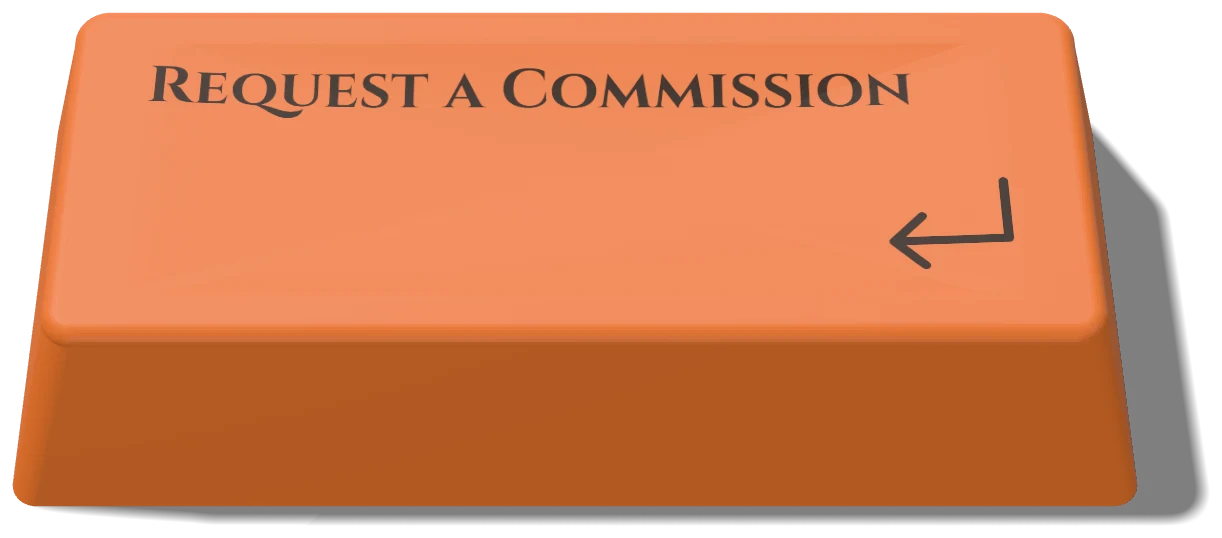
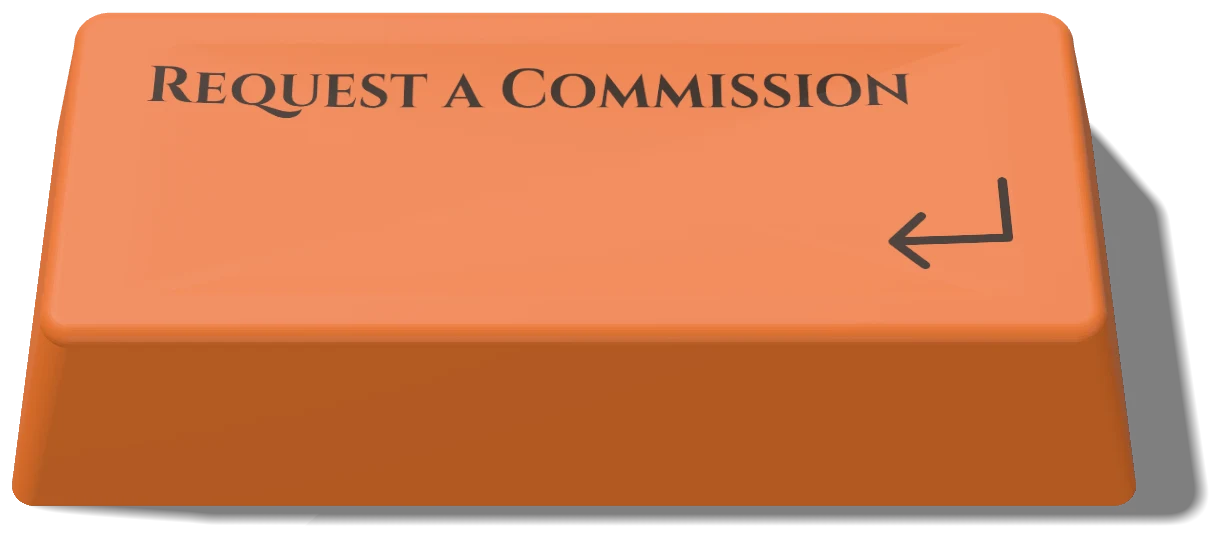
Mockup: keycap press renders the cap sinking into the plate (hover and pressed frames)
Claude-Session: https://claude.ai/code/session_014kgsP4zXbR91SpjPr6JWR2

Changed region(s): [[0.1245, 0.119, 0.3423, 0.2082], [0.3735, 0.1487, 0.5913, 0.2082]]

diff --git a/mockups/photo-key.html b/mockups/photo-key.html
@@ -28,30 +28,33 @@ body { margin: 0; background: var(--deep); color: var(--bright); font: 400 17px/
 .bar .logo { width: 48px; height: 48px; border-radius: 50%; }
 .bar nav { display: flex; gap: 24px; margin-left: auto; }
 
-/* The keycap button: one rendered image; key travel is a small translate. */
-.pk { display: inline-block; line-height: 0; border-radius: 12px; }
-.pk img { display: block; width: 280px; height: auto; transition: transform 140ms var(--ease), filter 140ms var(--ease); }
-.pk:hover img, .pk.is-hover img { transform: translateY(1px); }
-.pk:active img, .pk.is-press img { transform: translateY(3px); filter: brightness(.95); }
+/* The keycap button: three rendered frames (idle, hover, pressed) stacked; the state shows its frame.
+   Pressed is a real render with the cap sunk 3.2mm into the plate, so the walls visibly shorten. */
+.pk { display: inline-grid; line-height: 0; border-radius: 12px; }
+.pk img { grid-area: 1 / 1; display: block; width: 280px; height: auto; }
+.pk .h, .pk .p { opacity: 0; }
+.pk:hover img:first-child, .pk.is-hover img:first-child { opacity: 0; }
+.pk:hover .h, .pk.is-hover .h { opacity: 1; }
+.pk:active img:not(.p), .pk.is-press img:not(.p) { opacity: 0; }
+.pk:active .p, .pk.is-press .p { opacity: 1; }
 .pk:focus-visible { outline: 2px solid #E8834D; outline-offset: 4px; }
 .pk.big img { width: 560px; }
 .pk.small img { width: 190px; }
-@media (prefers-reduced-motion: reduce) { .pk img { transition: none; } }
 </style>
 </head>
 <body>
 <div class="wrap">
   <section class="cell">
-    <h2>Rendered keycap, up close <span>2× size; a 3D model with matte PBT plastic and studio light</span></h2>
-    <p>A 2.25-unit Enter key modelled at real proportions: tapered walls, molded rounded corners, a filleted top edge, a shallow dish, the legend printed into the surface, and a soft cast shadow. It is one small image (about 20 KB), so it looks the same on every device.</p>
-    <div class="stage"><a class="pk big" href="#" aria-label="Request a Commission"><img src="keys/enter-copper.webp" alt=""></a></div>
+    <h2>Rendered keycap, up close <span>2× size; idle and pressed</span></h2>
+    <p>A 2.25-unit Enter key modelled at real proportions: tapered walls, molded rounded corners, a filleted top edge, a shallow dish, the legend printed into the surface, and a soft cast shadow. Hover and press swap to real renders of the cap sunk into the plate (three images, about 58 KB together), so it looks the same on every device.</p>
+    <div class="stage"><div class="state"><a class="pk big" href="#" aria-label="Request a Commission"><img src="keys/enter-copper.webp" alt=""><img class="h" src="keys/enter-copper-hover.webp" alt=""><img class="p" src="keys/enter-copper-press.webp" alt=""></a><small>Idle</small></div><div class="state"><a class="pk big is-press" href="#" aria-label="Request a Commission"><img src="keys/enter-copper.webp" alt=""><img class="h" src="keys/enter-copper-hover.webp" alt=""><img class="p" src="keys/enter-copper-press.webp" alt=""></a><small>Pressed</small></div></div>
   </section>
   <section class="cell">
     <h2>At real size <span>idle, hover, pressed</span></h2>
     <div class="stage">
-      <div class="state"><a class="pk" href="#" aria-label="Request a Commission"><img src="keys/enter-copper.webp" alt=""></a><small>Idle</small></div>
-      <div class="state"><a class="pk is-hover" href="#" aria-label="Request a Commission"><img src="keys/enter-copper.webp" alt=""></a><small>Hover</small></div>
-      <div class="state"><a class="pk is-press" href="#" aria-label="Request a Commission"><img src="keys/enter-copper.webp" alt=""></a><small>Pressed</small></div>
+      <div class="state"><a class="pk" href="#" aria-label="Request a Commission"><img src="keys/enter-copper.webp" alt=""><img class="h" src="keys/enter-copper-hover.webp" alt=""><img class="p" src="keys/enter-copper-press.webp" alt=""></a><small>Idle</small></div>
+      <div class="state"><a class="pk is-hover" href="#" aria-label="Request a Commission"><img src="keys/enter-copper.webp" alt=""><img class="h" src="keys/enter-copper-hover.webp" alt=""><img class="p" src="keys/enter-copper-press.webp" alt=""></a><small>Hover</small></div>
+      <div class="state"><a class="pk is-press" href="#" aria-label="Request a Commission"><img src="keys/enter-copper.webp" alt=""><img class="h" src="keys/enter-copper-hover.webp" alt=""><img class="p" src="keys/enter-copper-press.webp" alt=""></a><small>Pressed</small></div>
     </div>
   </section>
   <section class="cell">
@@ -59,13 +62,13 @@ body { margin: 0; background: var(--deep); color: var(--bright); font: 400 17px/
     <div class="bar">
       <img class="logo" src="tex/logo-trim.webp" alt="">
       <nav><span>Crafted Art</span><span>Trust the Process</span><span>Built to Taste</span><span>About</span></nav>
-      <a class="pk small" href="#" aria-label="Request a Commission"><img src="keys/enter-sand.webp" alt=""></a>
+      <a class="pk small" href="#" aria-label="Request a Commission"><img src="keys/enter-sand.webp" alt=""><img class="h" src="keys/enter-sand-hover.webp" alt=""><img class="p" src="keys/enter-sand-press.webp" alt=""></a>
     </div>
   </section>
   <section class="cell">
     <h2>In the hero</h2>
     <div class="stage" style="align-items:flex-start">
-      <div class="hero-snip"><h3>Forged by night.</h3><p class="lede">After dark, the forge is lit and a keyboard is made.</p><div><a class="pk" href="#" aria-label="Request a Commission"><img src="keys/enter-copper.webp" alt=""></a></div></div>
+      <div class="hero-snip"><h3>Forged by night.</h3><p class="lede">After dark, the forge is lit and a keyboard is made.</p><div><a class="pk" href="#" aria-label="Request a Commission"><img src="keys/enter-copper.webp" alt=""><img class="h" src="keys/enter-copper-hover.webp" alt=""><img class="p" src="keys/enter-copper-press.webp" alt=""></a></div></div>
     </div>
   </section>
 </div>

diff --git a/mockups/keys/render-keycap.html b/mockups/keys/render-keycap.html
@@ -17,7 +17,7 @@ const renderer = new THREE.WebGLRenderer({ antialias: true, alpha: true, preserv
 renderer.setPixelRatio(1); renderer.setSize(W, H);
 renderer.outputColorSpace = THREE.SRGBColorSpace;
 renderer.toneMapping = THREE.NeutralToneMapping; renderer.toneMappingExposure = 1.0;
-renderer.shadowMap.enabled = true; renderer.shadowMap.type = THREE.VSMShadowMap;
+renderer.shadowMap.enabled = true; renderer.localClippingEnabled = true; renderer.shadowMap.type = THREE.VSMShadowMap;
 document.body.appendChild(renderer.domElement);
 
 const scene = new THREE.Scene();
@@ -111,6 +111,7 @@ window.renderKey = async ({ face, ink, text, press = 0, exposure = 1.0, ...shape
   renderer.toneMappingExposure = exposure;
   if (wallMesh) { capGroup.remove(wallMesh, topMesh); }
   const mat = new THREE.MeshPhysicalMaterial({ color: face, roughness: 0.5, metalness: 0, bumpMap: bump, bumpScale: 0.6, sheen: 0.25, sheenRoughness: 0.8, sheenColor: new THREE.Color(face) });
+  mat.clippingPlanes = [new THREE.Plane(new THREE.Vector3(0, 0, 1), 0)]; mat.clipShadows = true;  // the plate: a pressed cap sinks below it
   const topMat = mat.clone(); topMat.color = new THREE.Color(0xffffff); topMat.map = legendTexture(face, ink, text);
   wallMesh = new THREE.Mesh(wallGeo, mat); topMesh = new THREE.Mesh(topGeo, topMat);
   for (const m of [wallMesh, topMesh]) { m.castShadow = true; m.receiveShadow = true; capGroup.add(m); }

diff --git a/mockups/keys/README.md b/mockups/keys/README.md
@@ -2,6 +2,8 @@
 
 `enter-copper.webp` and `enter-sand.webp` are renders of a 2.25u Enter keycap (three.js, matte PBT
 material, studio light, cast shadow on a transparent ground).
+`-hover` and `-press` frames are the same cap sunk 1.2mm and 3.2mm into the plate (`"press"` option);
+crop all three frames of a color to one shared box so they line up.
 
 To re-render (different legend, color or size):
 
